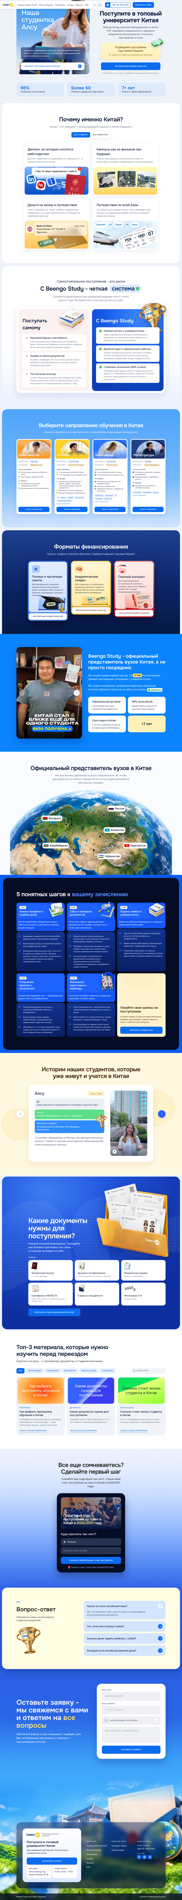
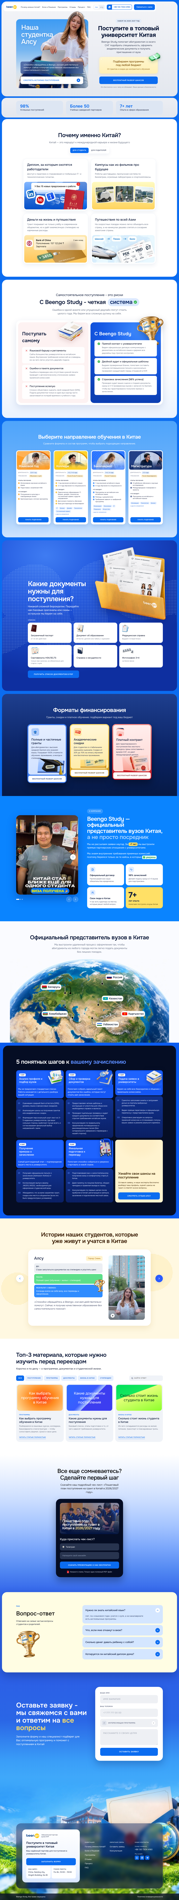
Hero per Figma: blue page background, grey gradient panels, header inside panel without shadow
Claude-Session: https://claude.ai/code/session_01DveQThDXrjAqWsCdBVYsEN

diff --git a/index.html b/index.html
@@ -652,6 +652,38 @@ section{padding:var(--section) 0}
 /* Шапка: без серой подложки при прокрутке, только белая плашка */
 .header{background:none;backdrop-filter:none;-webkit-backdrop-filter:none;pointer-events:none}
 .header .nav{pointer-events:auto;background:#fff;box-shadow:0 8px 30px rgba(13,26,58,.12),0 0 0 1px rgba(13,26,58,.04)}
+
+/* ===== Первый экран по макету: синяя подложка, светлые панели, шапка внутри панели ===== */
+.header{position:fixed;left:0;right:0;top:0;padding:24px 0 0;transition:padding .3s}
+.header.scrolled{padding-top:10px}
+.header .container{width:calc(100% - 56px);max-width:1560px}
+.header .nav{padding:10px 10px 10px 24px;border-radius:20px}
+.menu a:hover,.menu a.active{background:#eef0f4}
+.hero{background:#0b6cf0;padding:12px 0 0}
+.hero-panel{width:calc(100% - 24px);margin:0 auto;border-radius:40px;background:linear-gradient(180deg,#ffffff 0%,#f4f7fc 55%,#e9f0fa 100%);padding:clamp(120px,10vw,140px) 0 var(--s8)}
+.stats-panel{width:calc(100% - 24px);margin:12px auto 0;border-radius:40px;background:#f4f7fc;padding:24px 0}
+.hero .stats{margin-top:0}
+.hero + #why.sec,.hero ~ #why.sec{padding-top:12px}
+@media (max-width:980px){.header .container{width:calc(100% - 40px)}.hero-panel{padding-top:104px}}
+@media (max-width:680px){
+  .header{padding-top:16px}.header.scrolled{padding-top:8px}
+  .header .container{width:calc(100% - 32px)}
+  .header .nav{padding:8px 8px 8px 16px;border-radius:18px}
+  .hero{padding-top:8px}
+  .hero-panel,.stats-panel{width:calc(100% - 16px);border-radius:28px}
+  .hero-panel{padding:92px 0 var(--s5)}
+  .stats-panel{margin-top:8px;padding:16px 0}
+}
+
+/* шапка без тени; панель первого экрана — серый градиент */
+.header .nav{box-shadow:none}
+.hero-panel{background:linear-gradient(180deg,#f3f4f7 0%,#eceef3 50%,#e3e7ee 100%)}
+.stats-panel{background:linear-gradient(180deg,#eceef3 0%,#e3e7ee 100%)}
+.stat{background:#dde6f3}
+
+/* фон всей страницы — синий, как в макете */
+body{background:#0b6cf0}
+#checklist.sec{background:linear-gradient(180deg,#ffffff 0%,#e8f0ff 16%,#c9dcff 34%,#a3c3ff 52%,#7aa6fb 68%,#5288f2 84%,#3366ea 100%)}
 </style>
 </head>
 <body>
@@ -683,7 +715,7 @@ section{padding:var(--section) 0}
 
 <!-- ============ HERO ============ -->
 <section class="hero">
-  <div class="container">
+  <div class="hero-panel"><div class="container">
     <div class="hero-grid">
       <div class="hero-card reveal">
         <div class="hero-clip"><img src="assets/alsu.png" alt="Студентка Beengo Алсу" width="580" height="619"></div>
@@ -704,12 +736,14 @@ section{padding:var(--section) 0}
         <div class="note">Это бесплатно и ни к чему не обязывает. Ваши данные в безопасности.</div>
       </div>
     </div>
+  </div></div>
+  <div class="stats-panel"><div class="container">
     <div class="stats">
       <div class="stat reveal"><b data-count="98" data-suffix="%">98%</b><span>Успешных поступлений</span></div>
       <div class="stat reveal"><b data-count="50" data-prefix="Более ">Более 50</b><span>Учебных заведений-партнеров</span></div>
       <div class="stat reveal"><b data-count="7" data-suffix="+ лет">7+ лет</b><span>Опыта в сфере образования</span></div>
     </div>
-  </div>
+  </div></div>
 </section>
 
 <!-- ============ WHY CHINA ============ -->
@@ -1266,6 +1300,9 @@ $$('.form select.in').forEach(sel=>{
   let t=setInterval(()=>go(cur()+1),5000);const stop=()=>{clearInterval(t)};
   ['pointerdown','touchstart'].forEach(e=>tr.addEventListener(e,stop,{passive:true}));
 })();
+
+// шапка: компактнее при прокрутке
+(()=>{const h=$('.header');const f=()=>h.classList.toggle('scrolled',scrollY>40);addEventListener('scroll',f,{passive:true});f()})();
 // модалка
 const modal=$('#modal');
 $$('[data-open]').forEach(b=>b.addEventListener('click',e=>{e.preventDefault();
